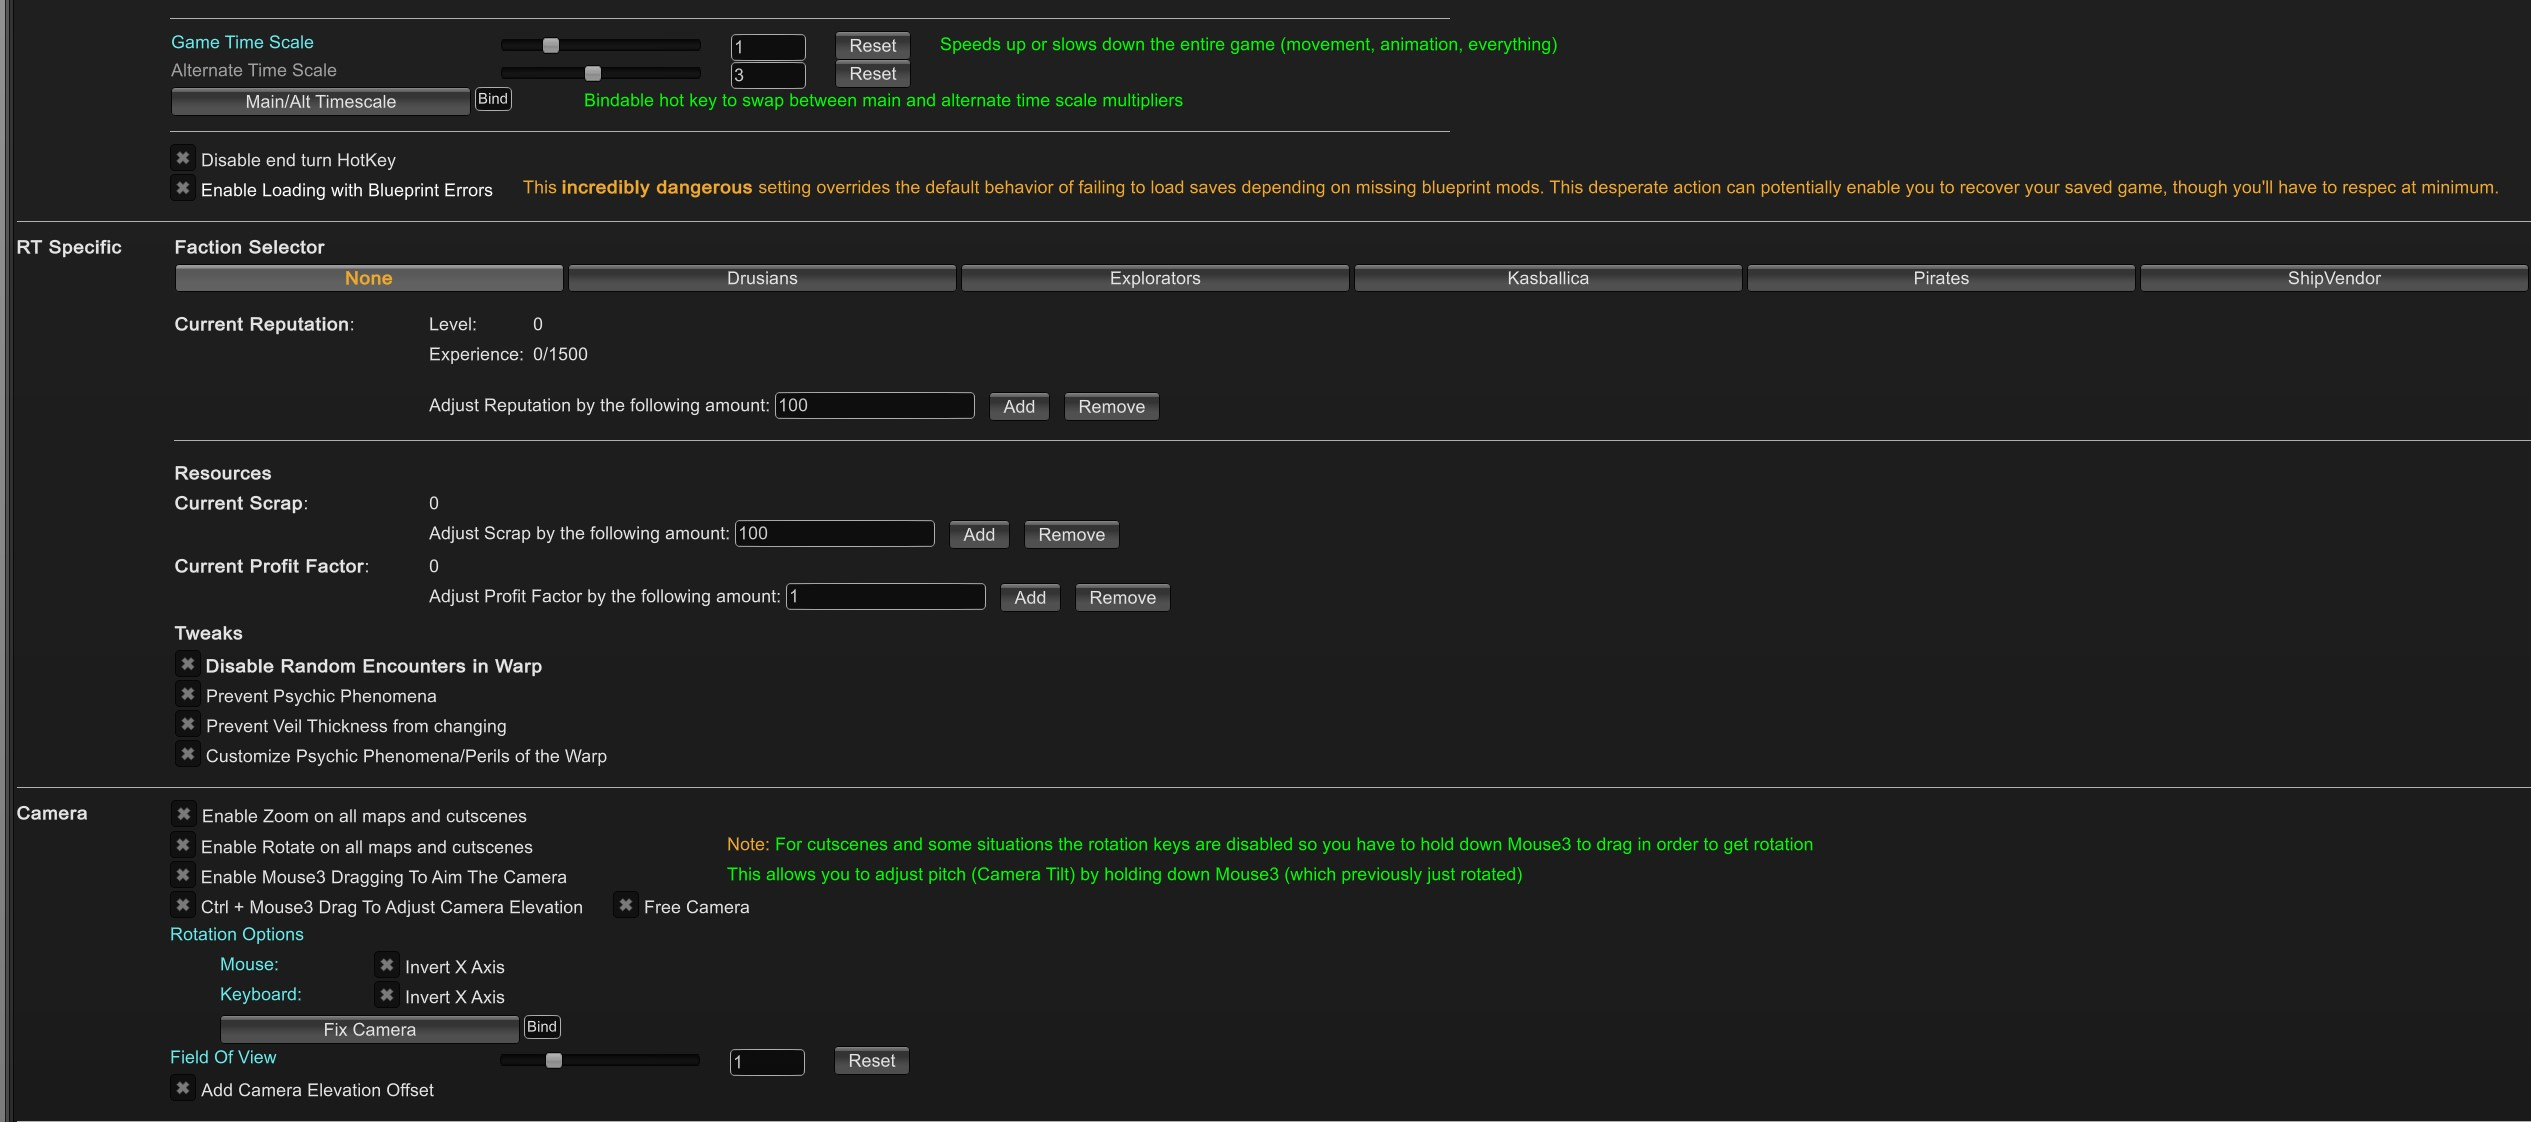
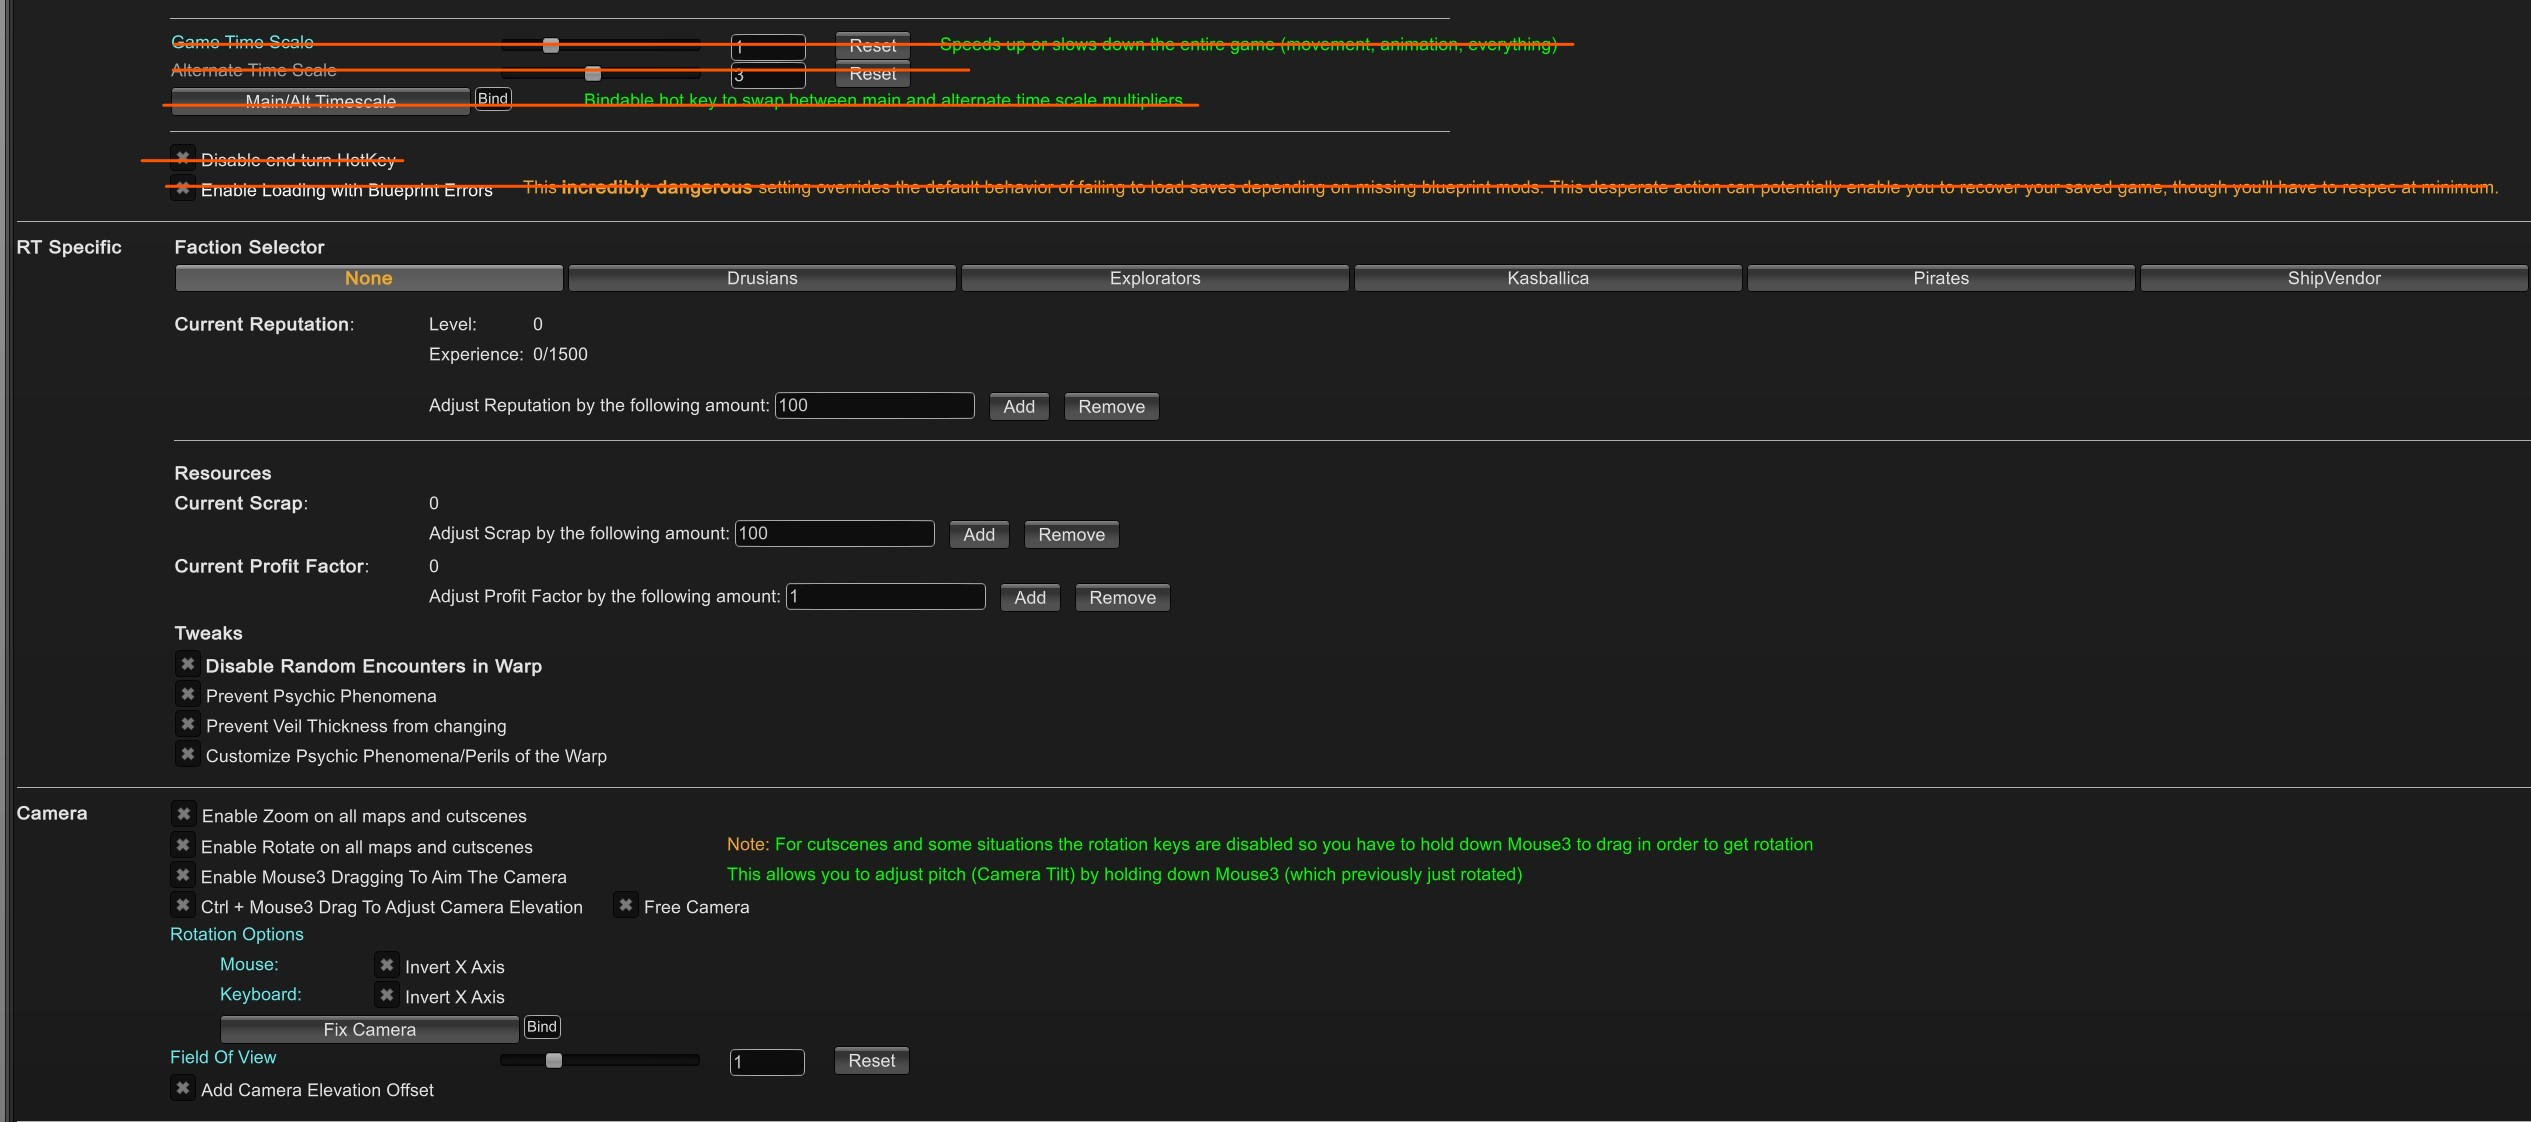
Wow

Changed region(s): [[0.0624, 0.1248, 0.9676, 0.1872], [0.0624, 0.0312, 0.6243, 0.0936]]

diff --git a/ToyBox/Classes/Features/BagOfTricks/QualityOfLife/GameAlternateTimeScaleFeature.cs b/ToyBox/Classes/Features/BagOfTricks/QualityOfLife/GameAlternateTimeScaleFeature.cs
@@ -10,7 +10,7 @@ public partial class GameAlternateTimeScaleFeature : ToggledFeature, IBindableFe
             return ref Settings.EnableGameAlternateTimeScale;
         }
     }
-    [LocalizedString("ToyBox_Features_BagOfTricks_QualityOfLife_GameAlternateTimeScaleFeature_Name", "Game Time Scale")]
+    [LocalizedString("ToyBox_Features_BagOfTricks_QualityOfLife_GameAlternateTimeScaleFeature_Name", "Alternate Game Time Scale")]
     public override partial string Name { get; }
     [LocalizedString("ToyBox_Features_BagOfTricks_QualityOfLife_GameAlternateTimeScaleFeature_Description", "Optional alternate time scale which can be swapped to via hotkey.")]
     public override partial string Description { get; }
@@ -21,7 +21,9 @@ public partial class GameAlternateTimeScaleFeature : ToggledFeature, IBindableFe
     public override void Initialize() {
         base.Initialize();
         Keybind = Hotkeys.MaybeGetHotkey(GetType());
-        Game.Instance.TimeController.DebugTimeScale = Settings.GameAlternateTimeScaleMultiplier;
+        if (IsEnabled) {
+            Game.Instance.TimeController.DebugTimeScale = Settings.GameAlternateTimeScaleMultiplier;
+        }
     }
     public override void Destroy() {
         base.Destroy();
@@ -29,17 +31,17 @@ public partial class GameAlternateTimeScaleFeature : ToggledFeature, IBindableFe
     }
     public override void OnGui() {
         using (HorizontalScope()) {
-            base.OnGui();
-            Space(10);
-            var current = Keybind;
-            if (UI.HotkeyPicker(ref current, this, true)) {
-                Keybind = current;
-            }
-            Space(10);
             if (UI.Slider(ref Settings.GameAlternateTimeScaleMultiplier, 0.00001f, 20f, 1f, 3, null, AutoWidth(), GUILayout.MinWidth(50), GUILayout.MaxWidth(150))) {
                 if (IsEnabled) {
                     Game.Instance.TimeController.DebugTimeScale = Settings.GameAlternateTimeScaleMultiplier;
                 }
+            }
+            Space(10);
+            base.OnGui();
+            Space(10);
+            var current = Keybind;
+            if (UI.HotkeyPicker(ref current, this)) {
+                Keybind = current;
             }
         }
     }

diff --git a/ToyBox/Classes/Features/BagOfTricks/QualityOfLife/LoadingWithBlueprintErrorsFeature.cs b/ToyBox/Classes/Features/BagOfTricks/QualityOfLife/LoadingWithBlueprintErrorsFeature.cs
@@ -1,0 +1,45 @@
+using Kingmaker.Blueprints;
+using Kingmaker.EntitySystem.Persistence.JsonUtility;
+using Newtonsoft.Json;
+
+namespace ToyBox.Features.BagOfTricks.QualityOfLife;
+
+[HarmonyPatch, ToyBoxPatchCategory("ToyBox.Features.BagOfTricks.QualityOfLife.LoadingWithBlueprintErrorsFeature")]
+public partial class LoadingWithBlueprintErrorsFeature : FeatureWithPatch {
+    public override ref bool IsEnabled {
+        get {
+            return ref Settings.EnableLoadingWithBlueprintErrors;
+        }
+    }
+    [LocalizedString("ToyBox_Features_BagOfTricks_QualityOfLife_LoadingWithBlueprintErrorsFeature_Name", "Enable Loading with Blueprint Errors")]
+    public override partial string Name { get; }
+    [LocalizedString("ToyBox_Features_BagOfTricks_QualityOfLife_LoadingWithBlueprintErrorsFeature_Description", "This dangerous allows loading saves even with missing blueprint mods. This can potentially allow you to recover a save, though you'll have to respec at minimum.")]
+    public override partial string Description { get; }
+
+    protected override string HarmonyName {
+        get {
+            return "ToyBox.Features.BagOfTricks.QualityOfLife.LoadingWithBlueprintErrorsFeature";
+        }
+    }
+    [HarmonyPatch(typeof(BlueprintConverter), nameof(BlueprintConverter.ReadJson)), HarmonyPrefix]
+    private static bool BlueprintConverter_ReadJson_Patch(ref object? __result, JsonReader reader) {
+        var text = reader.Value as string;
+        if (string.IsNullOrEmpty(text) || text == "null") {
+            __result = null; // We still can't look up a blueprint without a valid id
+            return false;
+        }
+        SimpleBlueprint? retrievedBlueprint;
+        try {
+            retrievedBlueprint = ResourcesLibrary.TryGetBlueprint(text);
+        } catch {
+            retrievedBlueprint = null;
+        }
+        if (retrievedBlueprint == null) {
+            Warn($"Failed to load blueprint by guid '{text}' but continued with null blueprint.");
+            OwlLog($"Failed to load blueprint by guid '{text}' but continued with null blueprint.");
+        }
+        __result = retrievedBlueprint;
+
+        return false;
+    }
+}

diff --git a/ToyBox/Classes/Features/BagOfTricks/BagOfTricksFeatureTab.cs b/ToyBox/Classes/Features/BagOfTricks/BagOfTricksFeatureTab.cs
@@ -66,6 +66,7 @@ public partial class BagOfTricksFeatureTab : FeatureTab {
         AddFeature(new GameTimeScaleFeature(), m_QualityOfLifeText);
         AddFeature(new GameAlternateTimeScaleFeature(), m_QualityOfLifeText);
         AddFeature(new DisableEndTurnKeybindFeature(), m_QualityOfLifeText);
+        AddFeature(new LoadingWithBlueprintErrorsFeature(), m_QualityOfLifeText);
 
         AddFeature(new HighlightHiddenObjectsFeature(), m_CheatsText);
     }

diff --git a/ToyBox/Classes/Infrastructure/Utilities/Helpers.cs b/ToyBox/Classes/Infrastructure/Utilities/Helpers.cs
@@ -20,7 +20,7 @@ public static class Helpers {
         UnityModManager.UI.Instance.ToggleWindow();
     }
     public static void LogExecution(Feature feature, params object?[] parameter) {
-        var toLog = "Executed action " + feature.GetType().FullName;
+        var toLog = "Executed action " + feature.Name;
         if (parameter?.Length > 0) {
             toLog += " with parameters " + parameter.ToContentString();
         }

diff --git a/ToyBox/Classes/Features/BagOfTricks/QualityOfLife/GameTimeScaleFeature.cs b/ToyBox/Classes/Features/BagOfTricks/QualityOfLife/GameTimeScaleFeature.cs
@@ -11,7 +11,7 @@ public partial class GameTimeScaleFeature : FeatureWithFloatSlider {
         base.Initialize();
         if (GetInstance<GameAlternateTimeScaleFeature>().IsEnabled) {
             Game.Instance.TimeController.DebugTimeScale = Settings.GameAlternateTimeScaleMultiplier;
-        } else {
+        } else if (IsEnabled) {
             Game.Instance.TimeController.DebugTimeScale = Value;
         }
     }

diff --git a/ToyBox/Classes/Infrastructure/Features/Feature.cs b/ToyBox/Classes/Infrastructure/Features/Feature.cs
@@ -26,6 +26,7 @@ public abstract class Feature {
     public abstract string Name { get; }
     public abstract string Description { get; }
     public abstract void OnGui();
+    // Called once at game init (in a thread if no INeedEarlyInit); and once each when re-enabled.
     public virtual void Initialize() { }
     public virtual void Destroy() { }
     public virtual bool ShouldHide {

diff --git a/ToyBox/Classes/Infrastructure/Settings/GeneralSettings.cs b/ToyBox/Classes/Infrastructure/Settings/GeneralSettings.cs
@@ -94,6 +94,7 @@ internal class GeneralSettings : AbstractSettings {
     public bool EnableGameAlternateTimeScale = false;
     public float GameAlternateTimeScaleMultiplier = 3f;
     public bool DisableEndTurnKeybindFeature = false;
+    public bool EnableLoadingWithBlueprintErrors = false;
 
     // - Cheats
     public bool HighlightHiddenObjects = false;
